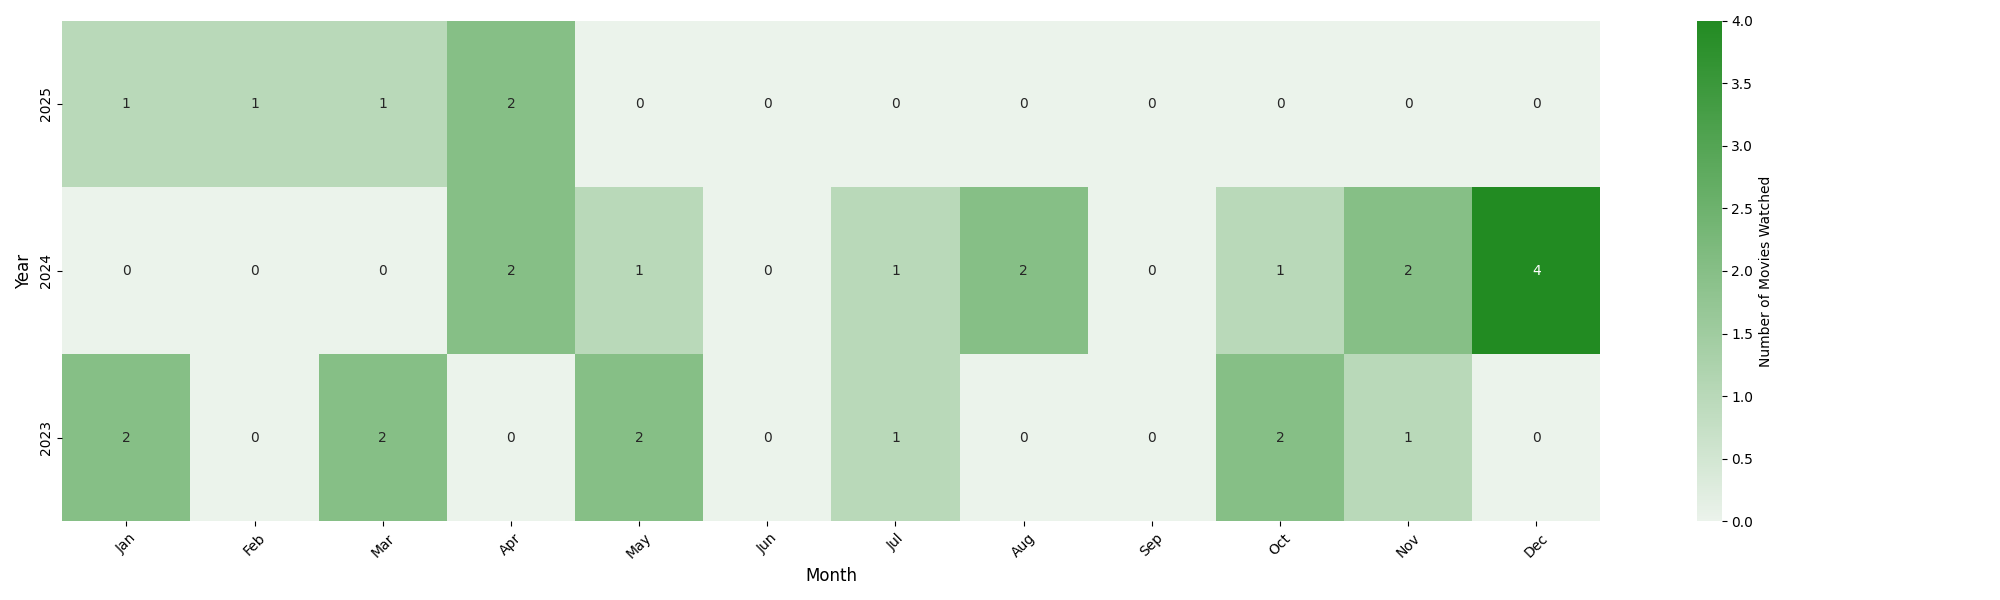
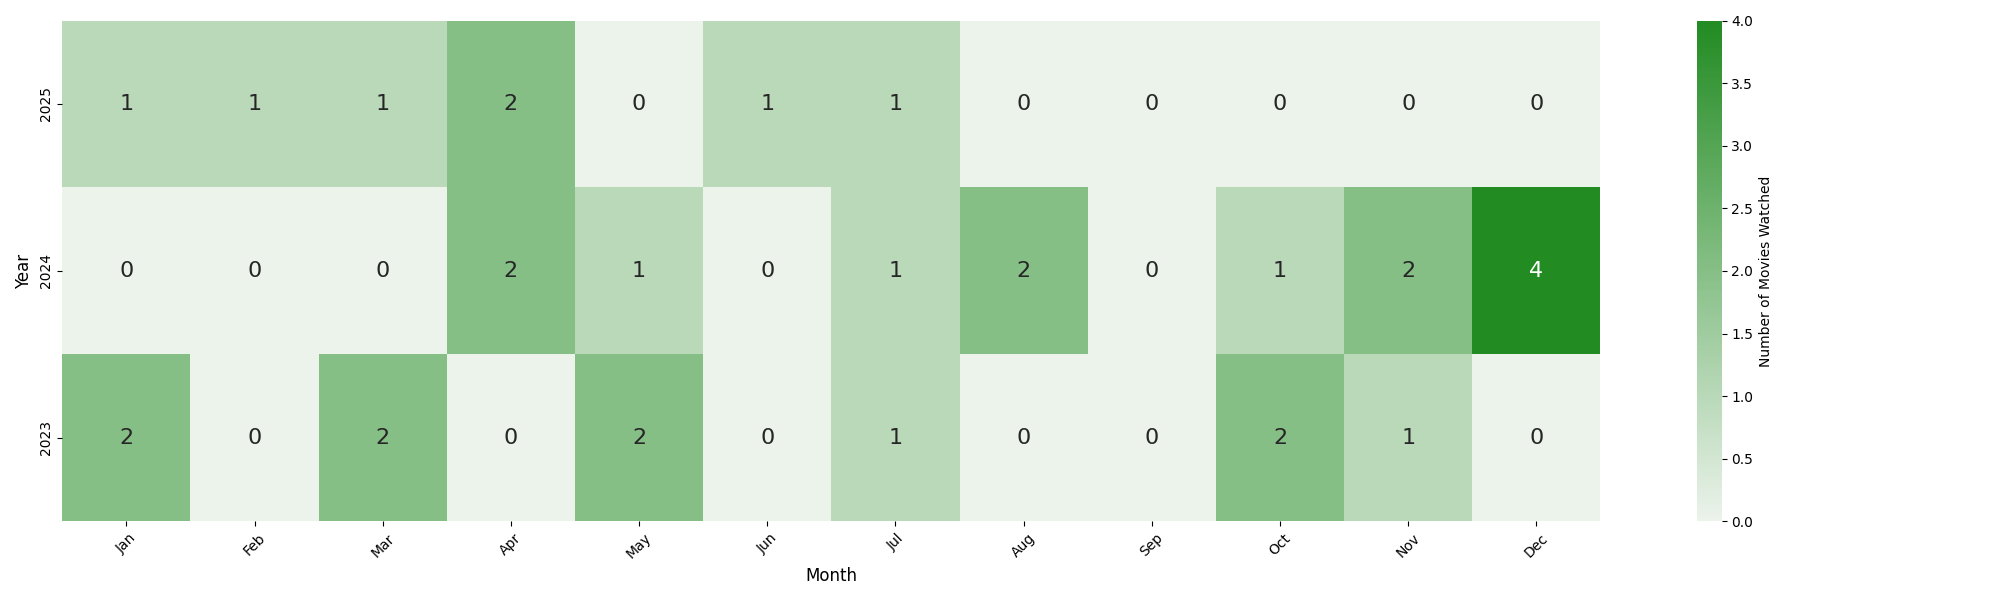
feat: update hobby lists

diff --git a/scripts/addReviews.py b/scripts/addReviews.py
@@ -12,7 +12,8 @@ valid_genre = [
     'Documentary', 
     'Anime', 
     'War',
-    'Coming of Age'
+    'Coming of Age',
+    'Thriller'
 ]
 
 def add_movie_review(title, rating , brief_review, genre, watchDate ,file_path='./media/rating.md'):
@@ -61,7 +62,7 @@ def add_movie_review(title, rating , brief_review, genre, watchDate ,file_path='
 """
     
     # To append movie at the top, use index 30
-    insertion_index = 29
+    insertion_index = 30
 
     # To append movie at the end
     # insertion_index = len(content)
@@ -77,13 +78,13 @@ def add_movie_review(title, rating , brief_review, genre, watchDate ,file_path='
 def main():
     # Demonstration of how to use the function
     add_movie_review(
-        title="Easy A 2010",
-        rating= 2,
+        title="Karthik Calling Karthik 2010",
+        rating= 8,
         brief_review="""
-Starting feels dull, plot lacks any character, felt like a waste of time, had a stereotypical Indian character which I find very off-putting
+A strong 8, especially for the crowd I got to see this with. Had seen this in pieces and bits long ago, but could not build a coherent story. Seeing this from Mahajan's theatre was something of it's own, I'll highly recommend doing this if you're in / around BLR atleast once. Coming to the plot, pretty early on it gets a bit predictable but still keeps you hooked, also you get amazing dance breaks : )
         """,
-        genre="Coming of Age",
-        watchDate="30 December 2024"
+        genre="Thriller",
+        watchDate="26 July 2025"
     )
 
 if __name__ == "__main__":

diff --git a/scripts/createHeatmap.py b/scripts/createHeatmap.py
@@ -75,7 +75,8 @@ def create_yearly_monthly_heatmap(dates, years=None):
         cmap=custom_cmap,  
         annot=True,        
         fmt='g',           
-        cbar_kws={'label': 'Number of Movies Watched'}
+        cbar_kws={'label': 'Number of Movies Watched'},
+        annot_kws={'size':16}
     )
     
     

diff --git a/media/rating.md b/media/rating.md
@@ -29,6 +29,21 @@ description: All movies I've watched from 2021-present by Aryan Pandey from IIIT
 
 ## Watch List 2025
 
+### Karthik Calling Karthik 2010
+- **Rating**: ★★★★☆ 8
+- **Genre**: Thriller
+- **Date** : 26 July 2025
+- **Brief Review**: 
+A strong 8, especially for the crowd I got to see this with. Had seen this in pieces and bits long ago, but could not build a coherent story. Seeing this from Mahajan's theatre was something of it's own, I'll highly recommend doing this if you're in / around BLR atleast once. Coming to the plot, pretty early on it gets a bit predictable but still keeps you hooked, also you get amazing dance breaks : )
+        
+
+
+### Se7en 1995
+- **Rating**: ★★★★☆ 8
+- **Genre**: Thriller
+- **Date** : 12 June 2025
+- **Brief Review**: 
+Thriller, very captivating. Saw this with Divyansh, pretty shitty ending but yes none of us were expecting a good enough ending. Could predict some of it, but the way it unfolds is bizzare and disturbing. Good movie, but neither would watch this again nor recommend this to anyone.
 
 ### Magic Mike
 - **Rating**: ★☆☆☆☆ 2
@@ -37,16 +52,12 @@ description: All movies I've watched from 2021-present by Aryan Pandey from IIIT
 - **Brief Review**: 
 Has no plot except for Channing Tatum dancing
         
-
-
 ### The Lego Batman
 - **Rating**: ★★★★☆ 9
 - **Genre**: Action
 - **Date** : 8 April 2025
 - **Brief Review**: 
 Great fun movie for kids, lots of teeny tiny jokes. Stupidly funny, loved it
-        
-
 
 ### Palm Springs 2020
 - **Rating**: ★★★★☆ 9
@@ -61,8 +72,6 @@ Sounds like bullshit, did Sarah go through an equivalent of a physics undergrad
 Adam Sandler made a sci-fi movie, low how predictable and childish the movie is.
 You get one sentence, Adam using all connectors known. Great that they also informed the 'hunter' guy.
 I feel a strong majority of my discomfort arises from this notion of my to not be sad, an image that is hard to maintain. It's not that the image is not shattered, it has happened quite a few times. It should not feel liberating to break the image, not having the image is a stronger liberation.
-        
-
 
 ### Demolition 2015
 - **Rating**: ★★★★☆ 8
@@ -74,8 +83,6 @@ Weird movie to watch into 1month of meeting someone
 Well we had an weird conversation a day before, for me not being sensitive enough and not being responsive. Felt Jake Gyllenhaal was that person for the first 40ish minutues, felt very weird and wrong to relate with the character for so long, for ignoring the little things that have been happening around. Maybe being nonchalant is a really bad adjective to be labelled, something which I got back in 2018. 
 I should pay a bit more attention, lend more of an ear than a brain. 
 Well I took a small break in between, talked to Shrivastava to ease myself, made Tea as it was a Tuesday. Heck yeah, even Mojo got his offer letter around 6PM. The second half made me realize that maybe I'm not that flawed of a person, the story wasn't that relatable.
-        
-
 
 ### Dance Flick 2009
 - **Rating**: ★★★☆☆ 7
@@ -84,14 +91,11 @@ Well I took a small break in between, talked to Shrivastava to ease myself, made
 - **Brief Review**: 
 fun, captivating totally nonsensical but in a fun way
 Has references to Superbad, Twilight (insane i know) and the oh shit its white guys amazing callback
-        
-
 <hr style="border:2px solid gray">
 
 <div id="WatchList2024"></div>
 
 ## Watch List 2024
-
 
 ### Easy A 2010
 - **Rating**: ★☆☆☆☆ 2
@@ -99,8 +103,6 @@ Has references to Superbad, Twilight (insane i know) and the oh shit its white g
 - **Date** : 30 December 2024
 - **Brief Review**: 
 Starting feels dull, plot lacks any character, felt like a waste of time, had a stereotypical Indian character which I find very off-putting
-        
-
 
 ### John Tucker Must Die 2006
 - **Rating**: ★★★☆☆ 7
@@ -109,8 +111,6 @@ Starting feels dull, plot lacks any character, felt like a waste of time, had a 
 - **Brief Review**: 
 Funny coming of the age movie, but tries to combine a lesson with the fun which ruins it all
 Kate kinda had tooo good of an ending to be true, but we all wished for it right
-        
-
 
 ### Superhero Movie 2008
 - **Rating**: ★★★★☆ 9
@@ -121,8 +121,6 @@ Kate kinda had tooo good of an ending to be true, but we all wished for it right
 Combines the Xmen in a much smoother fashion\
 Titanium blades, they cut through diamonds; I'm not wearing any diamonds\
 Amazing Bonus credit / deleted scenes
-        
-
 
 ### Swades
 - **Rating**: ★★★★☆ 9
@@ -132,7 +130,6 @@ Amazing Bonus credit / deleted scenes
         Great cinematic shots in the end, 
         almost felt like an NRI who just had to return to his homeland to sort stuff out. 
         Amazing watch
-        
 
 ### Pineapple Express 2007
 - **Rating**: ★★★★☆ 9
@@ -141,7 +138,6 @@ Amazing Bonus credit / deleted scenes
 - **Brief Review**: 
         Plot holes, but okay fun to watch
 Typical Seth Rogen, on similar topics, still fun
-
 
 ### Get Hard 2015
 - **Rating**: ★★★☆☆ 7

diff --git a/lists/travelwishlist.md b/lists/travelwishlist.md
@@ -8,6 +8,7 @@ description: A personal travel log of Aryan Pandey, exploring cities and countri
 
 <h3> Head over to </h3>
 - [Aise hi, some scenic places](#general)
+- [Compiled by Mahajan](#mahajan)
 - [Some scenic train journeys](#train)
 - [How To Roam Around Cities](#cityGuide)
 
@@ -20,6 +21,17 @@ Generic Places
 - Rajouri district in J&K
 - Pench National Park in MP
 - Orchha, Madhya Pradesh 
+
+<div id="mahajan"></div>
+
+<h2>
+Compiled by Mahajan
+</h2>
+
+<h3> Around Kashmir </h3>
+- Kokernag Spring https://maps.app.goo.gl/wUwwuwWY6hA924pj9 
+- Sinthan Top https://maps.app.goo.gl/MhU6epPrj7PHdisp6 
+- Verinag Spring https://maps.app.goo.gl/97sQGrQmdrfAZDXo6 
 
 <div id="train"></div>
 

diff --git a/lists/watchlist.md b/lists/watchlist.md
@@ -18,6 +18,12 @@ movies
 </h1>
 
 <h2>
+2025 watchlist
+</h2>
+1. Karwaan 2018, by Vikash
+2. Johnny Gaddaar 2007, by Vikash
+3. A Madea Homecoming 2022
+<h2>
 2024 watchlist
 </h2>
 1. Dance Flick 2009
@@ -112,3 +118,4 @@ Documentaries
 </h1>
 
 1. House of secrets
+2. The Silk Road, recommended by Vikash
